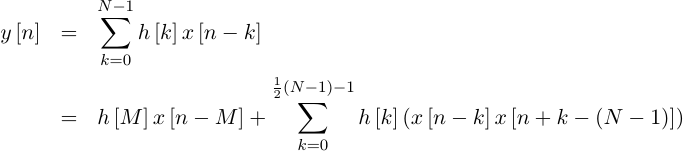
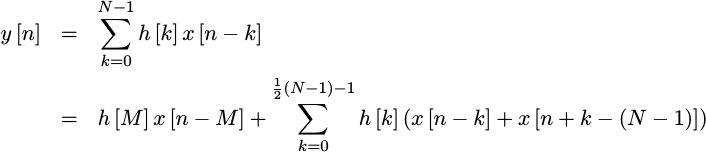
Updated the slow symmetric filter implementation

diff --git a/dsp/2018/05/17/slowsymf.html b/dsp/2018/05/17/slowsymf.html
@@ -103,8 +103,9 @@ resources.</p>
 
 <p>Interested yet?</p>
 
-<p>But we’ll come back to this in a moment to catch up some of our readers who
-may be starting in the middle of this discussion.  Basically, we’ve been
+<p>But we’ll come back to this in a moment.  In the meantime, let’s try to catch
+up some of our readers who may be starting in the middle of this discussion.
+Basically, we’ve been
 slowly working through hardware implementations of all of the basic
 <a href="https://en.wikipedia.org/wiki/Finite_impulse_response">FIR</a>
 filtering types.  We’ve already laid a lot of ground work, ground work you
@@ -211,10 +212,12 @@ of them all: the
 <a href="https://en.wikipedia.org/wiki/Fast_Fourier_transform">FFT</a>
 based
 filter.
-When implemented properly,
+When implemented properly, an
 <a href="https://en.wikipedia.org/wiki/Fast_Fourier_transform">FFT</a>
-based filter is not only quite configurable, but it’s also very easy to
-reconfigure.  Seems like I could keep going for quite some time.</p>
+based filter is not only quite configurable, it’s also very easy to
+reconfigure.</p>
+
+<p>Seems like I could keep discussing filtering for quite some time.</p>
 
 <p>All of these filtering topics would be fun to present here on
 <a href="http://zipcpu.com/">this blog</a>.
@@ -238,7 +241,7 @@ taps would you need?  Let’s say you wanted a 40Hz
 <a href="https://en.wikipedia.org/wiki/Transition_band">transition band</a>.
 You would then need 4095 taps to achieve a 65dB
 <a href="https://en.wikipedia.org/wiki/Stopband">stopband</a>.
-f you used the
+If you used the
 <a href="/dsp/2017/09/15/fastfir.html">generic filtering</a> approach,
 you would need to find an
 <a href="https://en.wikipedia.org/wiki/Field-programmable_gate_array">FPGA</a>
@@ -322,7 +325,7 @@ sampled sequence, <code class="highlighter-rouge">x[n]</code>, and apply a
 <a href="/dsp/2017/09/15/fastfir.html">filter</a>
 with
 <a href="https://en.wikipedia.org/wiki/Impulse_response">impulse response</a> <code class="highlighter-rouge">h[k]</code>,
-then you will get the output y[n].</p>
+then you will get the output <code class="highlighter-rouge">y[n]</code>.</p>
 
 <table align="center" style="float: none"><tr><td><img src="/img/eqn-convolution-raw.png" alt="y[n]=SUM h[k] x[n-k]" width="254" /></td></tr></table>
 
@@ -363,9 +366,9 @@ response</a>.</p>
 <p>Now consider what happens if we insist that this
 <a href="/dsp/2017/11/22/fltr-response.html">frequency response</a> is a
 <em><a href="https://en.wikipedia.org/wiki/Real_number">real</a></em>
-function of frequency, just like we specified it above.  We’ll use <code class="highlighter-rouge">Hs</code> and <code class="highlighter-rouge">hs</code>
-to describe this constrained filter.  If this filter has a
-<em><a href="https://en.wikipedia.org/wiki/Real_number">real</a></em>,
+function of frequency, just like we specified it above.  We’ll use <code class="highlighter-rouge">hs[k]</code> and
+<code class="highlighter-rouge">Hs</code> to describe this constrained filter.  If this filter has a
+<em><a href="https://en.wikipedia.org/wiki/Real_number">real</a></em>
 <a href="/dsp/2017/11/22/fltr-response.html">frequency response</a>,
 then the
 <a href="/dsp/2017/11/22/fltr-response.html">frequency response</a>
@@ -389,7 +392,7 @@ this “new” <code class="highlighter-rouge">k</code> value is just a dummy va
 <code class="highlighter-rouge">k</code> three equations above.  (Yes, I did get marked off for doing this by
 <a href="https://www.afit.edu/BIOS/bio.cfm?facID=223">my instructor</a> years ago.)</p>
 
-<table align="center" style="float: none"><tr><td><img src="/img/eqn-symfil-ksum.png" alt="SUM h[k] e^{-j2pi fk} = SUM h[-k] e^{-j2pi fk}" width="397" /></td></tr></table>
+<table align="center" style="float: none"><tr><td><img src="/img/eqn-symfil-ksum.png" alt="SUM h[k] e^{-j2pi fk} = SUM h[-k] e^{-j2pi fk}" width="388" /></td></tr></table>
 
 <p>Now reflect on the fact that this relationship must be true for all
 frequencies, <code class="highlighter-rouge">f</code>.  That can only happen if</p>
@@ -464,7 +467,7 @@ remains <a href="https://en.wikipedia.org/wiki/Linear_phase">symmetric</a> such 
 <p>then we can rewrite our <a href="https://en.wikipedia.org/wiki/Convolution">convolution</a>
 so it uses fewer multiplies.</p>
 
-<table align="center" style="float: none"><tr><td><img src="/img/eqn-symfil-implementation.png" alt="y[n] = SUM h[k] ( x[n-k] + x[n+k-(N-1)] ) + h[M]x[n-M]" width="683" /></td></tr></table>
+<table align="center" style="float: none"><tr><td><img src="/img/eqn-symfil-implementation.png" alt="y[n] = SUM h[k] ( x[n-k] + x[n+k-(N-1)] ) + h[M]x[n-M]" width="706" /></td></tr></table>
 
 <table align="center" style="float: right"><caption>Fig 3: Convolution Operation Exploiting Coefficient Symmetry</caption><tr><td><img src="/img/fir-symfil-form.svg" alt="" width="360" /></td></tr></table>
 <p>This is a big deal!  It’s a big deal because we now have half as many
@@ -473,7 +476,7 @@ filter</a>
 such that the middle point of
 <a href="https://github.com/ZipCPU/dspfilters/blob/master/rtl/slowsymf.v">the filter</a>,
 <code class="highlighter-rouge">h[M]</code>, has some sort of “simple”
-value like <code class="highlighter-rouge">(2^K)-1</code> for a <code class="highlighter-rouge">K+1</code> bit word size, for one fewer multiply.
+value like <code class="highlighter-rouge">(2^(K-1))-1</code> for a <code class="highlighter-rouge">K</code> bit word size, for one fewer multiply.
 Put together, we’ve just about doubled the capability of any
 <a href="/dsp/2017/09/15/fastfir.html">filter</a>
 we might wish to implement for only a minimal cost in additional logic.</p>
@@ -487,7 +490,7 @@ the coefficient in the middle–the one we’ll multiply by a constant value.</p
 
 <p>Now compare Fig 3 to Fig 2 and count the multiplies.  See the difference?
 Instead of <code class="highlighter-rouge">N</code> multiplies, there are now <code class="highlighter-rouge">(N-1)/2</code>, or nearly half as many
-as we had before.  See the difference?</p>
+as we had before.</p>
 
 <p>Now let’s take a look at how we might optimize our filter’s implementation
 to take advantage of this property.</p>
@@ -518,7 +521,7 @@ C++ code worked by first adding a new data sample to a circular buffer.</p>
 		<span class="n">m_loc</span> <span class="o">=</span> <span class="mi">0</span><span class="p">;</span></code></pre></figure>
 
 <p>Then the filtering algorithm stepped through each
-filter
+<a href="/dsp/2017/09/15/fastfir.html">filter</a>
 coefficient, multiplying it by a corresponding data sample.</p>
 
 <figure class="highlight"><pre><code class="language-cpp" data-lang="cpp">	<span class="n">acc</span> <span class="o">=</span> <span class="mf">0.0</span><span class="p">;</span>
@@ -527,6 +530,18 @@ coefficient, multiplying it by a corresponding data sample.</p>
 	<span class="n">ln</span>  <span class="o">=</span> <span class="n">m_len</span> <span class="o">-</span> <span class="n">m_loc</span><span class="p">;</span>
 	<span class="k">for</span><span class="p">(</span><span class="n">i</span><span class="o">=</span><span class="mi">0</span><span class="p">;</span> <span class="n">i</span><span class="o">&lt;</span><span class="n">ln</span><span class="p">;</span> <span class="n">i</span><span class="o">++</span><span class="p">)</span>
 		<span class="n">acc</span> <span class="o">+=</span> <span class="o">*</span><span class="n">t</span><span class="o">--</span> <span class="o">*</span> <span class="o">*</span><span class="n">d</span><span class="o">++</span><span class="p">;</span></code></pre></figure>
+
+<p>Notice that the two indices go in opposite directions.  This is an important
+feature of any
+<a href="/dsp/2017/09/15/fastfir.html">filtering</a>,
+implementation where the
+<a href="/dsp/2017/09/15/fastfir.html">filter</a>
+might not be
+<a href="https://en.wikipedia.org/wiki/Linear_phase">symmetric</a>.
+For <a href="https://en.wikipedia.org/wiki/Linear_phase">symmetric</a>
+<a href="/dsp/2017/09/15/fastfir.html">filters</a>,
+the direction the coefficients are read doesn’t really
+matter all that much.</p>
 
 <p>The algorithm was made just a touch confusing by the fact that the data
 is kept in a circular buffer.  As a result, the relevant data might cross
@@ -544,9 +559,12 @@ buffer split within the loop itself.</p>
 <figure class="highlight"><pre><code class="language-cpp" data-lang="cpp">	<span class="k">return</span> <span class="n">acc</span><span class="p">;</span>
 <span class="p">}</span></code></pre></figure>
 
-<p>That’s the basic filtering algorithm that you can apply to implement any
+<p>That’s the basic
+<a href="/dsp/2017/09/15/fastfir.html">filtering</a>
+algorithm that you can apply to implement any
 <a href="https://en.wikipedia.org/wiki/Finite_impulse_response">FIR</a>
 <a href="/dsp/2017/09/15/fastfir.html">filter</a>.  (Remember, for
+<a href="https://en.wikipedia.org/wiki/Finite_impulse_response">FIR</a>
 <a href="/dsp/2017/09/15/fastfir.html">filters</a>
 longer than about 64-taps or so,
 <a href="https://en.wikipedia.org/wiki/Fast_Fourier_transform">FFT</a>
@@ -597,7 +615,7 @@ coefficient.</p>
 
 <figure class="highlight"><pre><code class="language-cpp" data-lang="cpp">	<span class="k">do</span> <span class="p">{</span>
 		<span class="kt">double</span>	<span class="n">presum</span> <span class="o">=</span> <span class="p">(</span><span class="o">*</span><span class="n">dpold</span><span class="o">++</span><span class="p">)</span> <span class="o">+</span> <span class="p">(</span><span class="o">*</span><span class="n">dpnew</span><span class="o">--</span><span class="p">);</span>
-		<span class="n">acc</span> <span class="o">+=</span> <span class="o">*</span><span class="n">t</span><span class="o">--</span> <span class="o">*</span> <span class="n">presum</span><span class="p">;</span></code></pre></figure>
+		<span class="n">acc</span> <span class="o">+=</span> <span class="o">*</span><span class="n">t</span><span class="o">++</span> <span class="o">*</span> <span class="n">presum</span><span class="p">;</span></code></pre></figure>
 
 <p>So far this is all very straight forward.</p>
 
@@ -641,7 +659,7 @@ We will, however, need to worry about timing and pipeline scheduling.</p>
 <p>When we first built our
 <a href="/dsp/2017/12/30/slowfil.html">slow filter implementation</a>,
 we used Fig 4 to illustrate how
-<a href="/dsp/2017/12/30/slowfil.html">this filter</a> worked.</p>
+<a href="/dsp/2017/12/30/slowfil.html">it</a> worked.</p>
 
 <table align="center" style="float: none"><caption>Fig 4. A Time Multiplexed filter implementation</caption><tr><td><img src="/img/fir-slow-form.svg" alt="" width="480" /></td></tr></table>
 
@@ -851,7 +869,8 @@ a digital <a href="/dsp/2017/09/15/fastfir.html">filter</a> using
 problem is that the multiply makes the application of
 <a href="/blog/2017/10/19/formal-intro.html">formal methods</a>
 difficult.  I’ll leave this concept for another day, though, specifically
-for some time after I discuss the concept of abstraction.)</p>
+for some time after I discuss the concept of abstraction in
+<a href="/blog/2017/10/19/formal-intro.html">formal verification</a>.)</p>
 
 <p>In the end, in order to get the <a href="https://github.com/ZipCPU/dspfilters/blob/master/rtl/slowsymf.v">following
 design</a>
@@ -886,13 +905,14 @@ this portion of the pipeline.</p>
 
 <p>I’ve taken the time to show particular anchor points to this diagram in
 red.  These are the points we worked out above in the last section.  They are
-immovable in the pipeline.  Hence, following the <code class="highlighter-rouge">m_ce</code> (memory valid) cycle
-there’s a data valid cycle where <code class="highlighter-rouge">d_ce</code> is high.  This will be the first of
-many such cycles.  This is followed by a summation cycle, <code class="highlighter-rouge">s_ce</code>, when the
-first data sum is true.  This is then followed by a product cycle, <code class="highlighter-rouge">p_ce</code>,
-when the first data product is true and so on.</p>
+immovable in the pipeline.  Hence, following the <code class="highlighter-rouge">m_ce</code> (first memory read
+valid) cycle there’s a first data valid cycle where <code class="highlighter-rouge">d_ce</code> is high.  This
+will be the first of many such cycles.  This is followed by a summation
+cycle, <code class="highlighter-rouge">s_ce</code>, when the first data sum is true.  This is then followed
+by a product cycle, <code class="highlighter-rouge">p_ce</code>, when the first data product is true and so on.</p>
 
-<p>Shown in black are the lines I struggled to get right.  In particular, the
+<p>The items in black are the ones I really struggled to get right.  In
+particular, the
 first <a href="/dsp/2017/09/15/fastfir.html">filter</a> coefficient
 value doesn’t have to be valid until <code class="highlighter-rouge">s_ce</code> clock.
 That means its index must be valid the clock prior and <em>not</em> the clock
@@ -1054,7 +1074,8 @@ is true then the product is valid and may be accumulated.</p>
 
 <p>We’ll next focus on the data read indices.  These will continue to follow the
 left and right convention from Figs 5 and 6 above.  Hence we’ll have a left
-index, <code class="highlighter-rouge">lidx</code>, and a right index <code class="highlighter-rouge">ridx</code>.  On any reset, these are set to zero.</p>
+index, <code class="highlighter-rouge">lidx</code>, and a right index <code class="highlighter-rouge">ridx</code>.  On any reset, these are set to zero,
+although this is really more for form than anything else.</p>
 
 <figure class="highlight"><pre><code class="language-verilog" data-lang="verilog">	initial	lidx = 0;
 	initial	ridx = 0;
@@ -1067,7 +1088,7 @@ index, <code class="highlighter-rouge">lidx</code>, and a right index <code clas
 <p>Then, on any new sample, the left data index, <code class="highlighter-rouge">lidx</code> is set to point to the
 newest value just written to memory.  The right half data index is a touch
 more complicated–and took me many trials to get right.  This index is
-given by back tracking from the newest value by half our
+given by back tracking from the oldest value by half our
 <a href="/dsp/2017/09/15/fastfir.html">filter</a> length.  This
 would’ve been the entire size of the second memory, save that we are forcing the
 memory to have a power of two size, while the <code class="highlighter-rouge">NTAPS</code> can be any arbitrary
@@ -1099,7 +1120,8 @@ run.</p>
 <code class="highlighter-rouge">last_data_index</code> flag depends upon the cofficient index, not the data index.
 This coefficient index isn’t (yet) valid on the <code class="highlighter-rouge">m_ce</code> cycle.  Hence, we need
 to continue to walk the index forward even before the first tap index is
-valid.  (Yes, this was one of the details that surprised me as I built this.)</p>
+valid.  (Yes, this was another one of those details that surprised me as
+I built this.)</p>
 
 <p>A very similar piece of logic is used to determine the
 <a href="/dsp/2017/09/15/fastfir.html">filter</a>
@@ -1162,7 +1184,7 @@ flag, and like it this is only valid for one clock cycle.</p>
 	else
 		dsum   &lt;= dleft + dright;</code></pre></figure>
 
-<p>We’ll use the <code class="highlighter-rouge">s_ce</code> signal to mark that the data summation is valid.</p>
+<p>We’ll use the <code class="highlighter-rouge">s_ce</code> signal to mark that the first data summation is valid.</p>
 
 <figure class="highlight"><pre><code class="language-verilog" data-lang="verilog">	initial	s_ce = 0;
 	always @(posedge i_clk)
@@ -1191,7 +1213,7 @@ in <code class="highlighter-rouge">TW</code> bits, or <code class="highlighter-r
 	else if (m_ce)
 		midprod &lt;= { {(OW-IW-TW+1){mid_sample[IW-1]}},
 					mid_sample, {(TW-1){1'b0}}}
-				- , mid_sample};</code></pre></figure>
+				-{ {(OW-IW){mid_sample[IW-1]} }, mid_sample};</code></pre></figure>
 
 <p>That then leads us right into the accumulator.  There are three parts to
 this.  First, we’ll set it to zero on any reset.</p>
@@ -1245,12 +1267,15 @@ For example, did you notice the strange logic on <code class="highlighter-rouge"
 the fact that the <code class="highlighter-rouge">last_data_index</code> compared against two instead of zero or
 one?  Or perhaps that the <code class="highlighter-rouge">taps_left</code> calculation didn’t depend upon the
 total number of taps, but rather <code class="highlighter-rouge">(N-1)/2</code>?  (Remember, <code class="highlighter-rouge">N</code>, the number of
-coefficients, <em>must</em> be an odd number.)</p>
+coefficients, <em>must</em> be an odd number.)  All of these values were determined
+with the help of running many simulations.</p>
 
 <h2 id="test-bench-performance">Test Bench Performance</h2>
 
-<p>When it comes to building the test bench for this system, there wasn’t a lot of
-work to be done–thanks to the work we did building a generic filtering
+<p>When it comes to building the <a href="https://github.com/ZipCPU/dspfilters/blob/master/bench/cpp/slowsymf_tb.cpp">test bench for this
+system</a>,
+there wasn’t a lot of work to be done–thanks to the work we did building
+a generic filtering
 <a href="/dsp/2017/11/04/genfil-tb.html">test bench</a>
 some time earlier.  Even better, if you
 <a href="http://meldmerge.org">meld</a>
@@ -1295,7 +1320,8 @@ given to this function and passed to <code class="highlighter-rouge">load</code>
 				<span class="n">assert</span><span class="p">(</span><span class="n">data</span><span class="p">[</span><span class="n">k</span><span class="p">]</span> <span class="o">==</span> <span class="n">m</span><span class="p">);</span></code></pre></figure>
 
 <p>Likewise if this is the midpoint, then the coefficient should be equal to
-the fixed value, <code class="highlighter-rouge">(1&lt;&lt;(TW-1))-1</code>.</p>
+the fixed value, <code class="highlighter-rouge">(1&lt;&lt;(TW-1))-1</code>, where <code class="highlighter-rouge">TW</code> remains the maximum number of
+bits in any coefficient.</p>
 
 <figure class="highlight"><pre><code class="language-c--" data-lang="c++">			<span class="k">else</span> <span class="k">if</span> <span class="p">(</span><span class="n">k</span> <span class="o">==</span> <span class="n">MIDP</span><span class="p">)</span>
 				<span class="n">assert</span><span class="p">(</span><span class="n">m</span> <span class="o">==</span> <span class="p">(</span><span class="mi">1</span><span class="o">&lt;&lt;</span><span class="p">(</span><span class="n">TW</span><span class="p">()</span><span class="o">-</span><span class="mi">1</span><span class="p">))</span><span class="o">-</span><span class="mi">1</span><span class="p">);</span></code></pre></figure>
@@ -1330,13 +1356,18 @@ we studied</a>.</p>
 
 <h2 id="conclusion">Conclusion</h2>
 
-<p>This filter implementation marks one of those times where a little bit of
+<p><a href="https://github.com/ZipCPU/dspfilters/blob/master/rtl/slowsymf.v">This filter
+implementation</a>
+marks one of those times where a little bit of
 engineering up front will spare you a lot of design resources later.  That’s
 why we added a touch more mathematics above to <a href="/dsp/2017/09/15/fastfir.html">what we had done
-before</a>.  Sure, our
-implementation is a touch more complicated than <a href="https://github.com/ZipCPU/dspfilters/blob/master/rtl/slowfil.v">the last
-one</a>.  But look
-at what we gained: twice the performance!  That’s what makes <a href="https://github.com/ZipCPU/dspfilters/blob/master/rtl/slowsymf.v">this filtering
+before</a>.  Sure,
+<a href="https://github.com/ZipCPU/dspfilters/blob/master/rtl/slowsymf.v">our
+implementation</a>
+is a touch more complicated than <a href="https://github.com/ZipCPU/dspfilters/blob/master/rtl/slowfil.v">the last slow
+filter</a>.
+But look at what we gained: twice the performance!  That’s what makes
+<a href="https://github.com/ZipCPU/dspfilters/blob/master/rtl/slowsymf.v">this filtering
 implementation</a>
 valuable.  How applicable is it?  This approach applies to all filters
 designed via the <em>optimal</em> <a href="https://en.wikipedia.org/wiki/Parks-McClellan_filter_design_algorithm">Parks and McClellan filter design
@@ -1345,8 +1376,11 @@ In other words, this is almost a universally applicable optimization among
 <a href="https://en.wikipedia.org/wiki/Finite_impulse_response">FIR</a>
 <a href="/dsp/2017/09/15/fastfir.html">filter</a> implementations.</p>
 
-<p>As I mentioned above, we have yet to discuss many other types of filtering
-implementations.  Perhaps this simplest filter to build next would be a
+<p>As I mentioned above, we have yet to discuss many other types of
+<a href="/dsp/2017/09/15/fastfir.html">filtering</a>
+implementations.  Perhaps this simplest
+<a href="/dsp/2017/09/15/fastfir.html">filter</a>
+to build next would be a
 <a href="https://en.wikipedia.org/wiki/Half-band_filter">half band filter</a>.  For
 certain <a href="/dsp/2017/09/15/fastfir.html">filters</a>, a
 <a href="https://en.wikipedia.org/wiki/Half-band_filter">half band filter</a>

diff --git a/blog.html b/blog.html
@@ -75,6 +75,17 @@
   <ul class="post-list">
     
       <li>
+        <span class="post-meta">May 17, 2018</span>
+
+        <h2>
+          <a class="post-link" href="/dsp/2018/05/17/slowsymf.html">A Slow but Symmetric FIR Filter Implementation</a>
+        </h2>
+	
+	<DIV ID=<post-meta"><P>The cost of an FIR filter is usually measured by the number of multiplies required to calculate an output.  If you want to implement a better filter, you only need to be able to afford more multiplies.  However, if the filter is symmetric, and most FIR filters are, then a little cleverness will allow you to implement the same filter with half as many multiplies.</P></DIV>
+	
+      </li>
+    
+      <li>
         <span class="post-meta">Apr 30, 2018</span>
 
         <h2>
@@ -276,8 +287,10 @@
         <span class="post-meta">Dec 30, 2017</span>
 
         <h2>
-          <a class="post-link" href="/2017/12/30/slowfil.html">Slowfil</a>
+          <a class="post-link" href="/dsp/2017/12/30/slowfil.html">A better filter implementation for slower signals</a>
         </h2>
+	
+	<DIV ID=<post-meta"><P>All of the filter implementations we've presented so far are high speed implementations--appropriate for signals at or close to the system clock rate.  These implementations, however, end up being very resource expensive when all you want to do is to filter a much slower signal--such as an audio signal.  This post, therefore, presents an alternative that is more resource efficient for audio signals.</P></DIV>
 	
       </li>
     

diff --git a/topics.html b/topics.html
@@ -502,13 +502,20 @@ the ZipOS found on the <a href="https://github.com/ZipCPU/s6soc">S6SoC</a></p>
 counterparts.</p>
       </li>
       <li>
-        <p><a href="/dsp/2017/12/30/slowfil.html">A Generic (slow) FIR
-filter</a>.</p>
+        <p><a href="/dsp/2017/12/30/slowfil.html">A Generic (slow) FIR filter</a>.</p>
       </li>
       <li>
         <p>A cascaded slow FIR filter.   This article will present an approach
 that allows you to cascade filter blocks together in order to implement
 a longer filter.</p>
+      </li>
+      <li>
+        <p><a href="/dsp/2018/05/17/slowsymf.html">A symmetric slow FIR filter</a>.
+This article modifies the <a href="/dsp/2017/12/30/slowfil.html">generic (slow) FIR
+filter</a>,
+in order to optimize it to exploit the linear phase relationship within
+it.  This article goes through the background of why a symmetric filter
+is, as well as why such an implementation is superior to the generic one.</p>
       </li>
     </ul>
 

diff --git a/dsp/dsp.html b/dsp/dsp.html
@@ -75,6 +75,17 @@
   <ul class="post-list">
     
       <li>
+        <span class="post-meta">May 17, 2018</span>
+
+        <h2>
+          <a class="post-link" href="/dsp/2018/05/17/slowsymf.html">A Slow but Symmetric FIR Filter Implementation</a>
+        </h2>
+	
+	<DIV ID=<post-meta"><P>The cost of an FIR filter is usually measured by the number of multiplies required to calculate an output.  If you want to implement a better filter, you only need to be able to afford more multiplies.  However, if the filter is symmetric, and most FIR filters are, then a little cleverness will allow you to implement the same filter with half as many multiplies.</P></DIV>
+	
+      </li>
+      
+      <li>
         <span class="post-meta">Mar 30, 2018</span>
 
         <h2>

diff --git a/index.html b/index.html
@@ -75,6 +75,17 @@
   <ul class="post-list">
     
       <li>
+        <span class="post-meta">May 17, 2018</span>
+
+        <h2>
+          <a class="post-link" href="/dsp/2018/05/17/slowsymf.html">A Slow but Symmetric FIR Filter Implementation</a>
+        </h2>
+	
+	<DIV ID=<post-meta"><P>The cost of an FIR filter is usually measured by the number of multiplies required to calculate an output.  If you want to implement a better filter, you only need to be able to afford more multiplies.  However, if the filter is symmetric, and most FIR filters are, then a little cleverness will allow you to implement the same filter with half as many multiplies.</P></DIV>
+	
+      </li>
+    
+      <li>
         <span class="post-meta">Apr 30, 2018</span>
 
         <h2>
